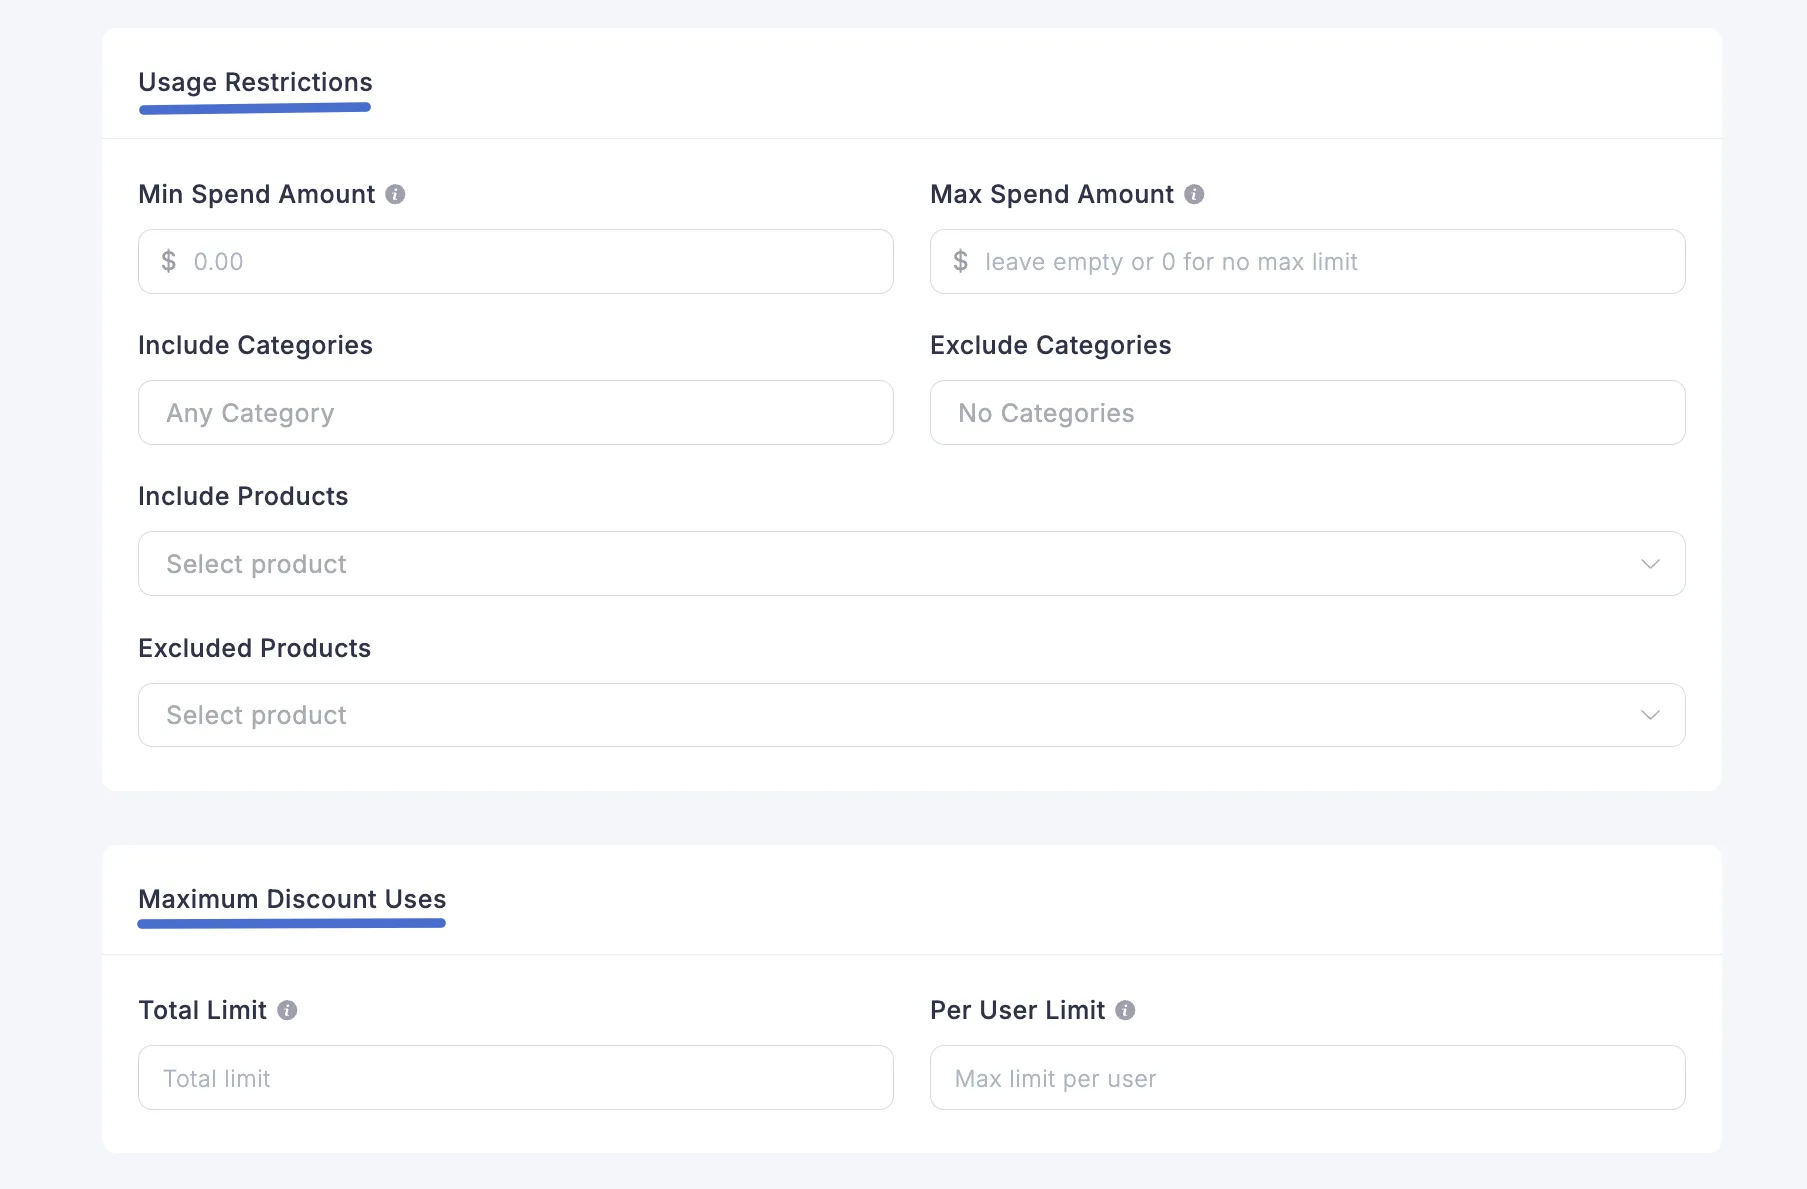
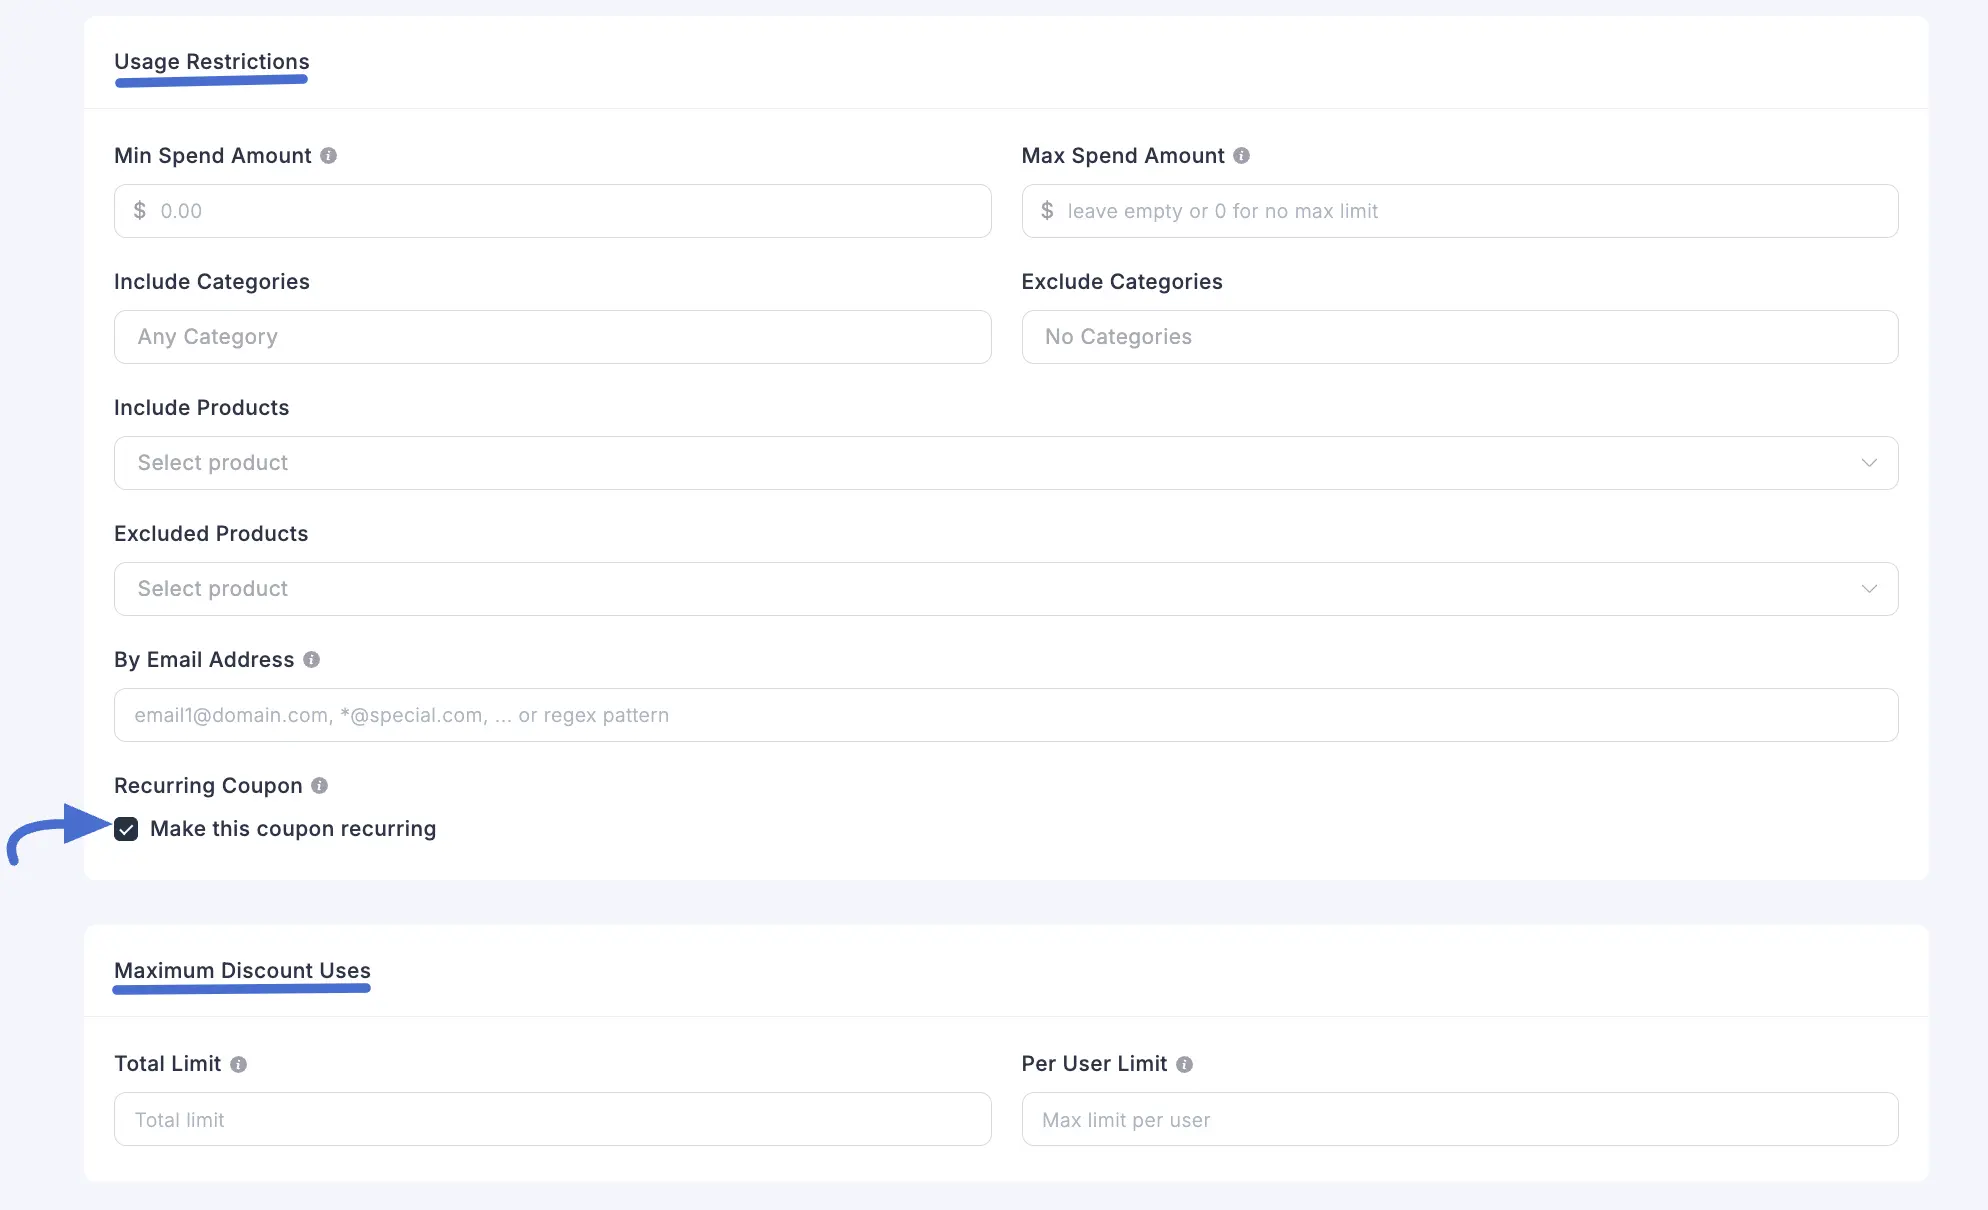
adding coupons doc update
Update Adding Coupons docs 100% recurring feature.

diff --git a/guide/marketing-sales-tools/creating-managing-coupons/adding-coupons/index.md b/guide/marketing-sales-tools/creating-managing-coupons/adding-coupons/index.md
@@ -49,14 +49,41 @@ On the right side of the screen, you’ll find the **Schedule** box. This is whe
 
 ### 4. Usage Restrictions
 
-Sometimes, you only want a coupon to work for certain products or if a customer spends enough money. This is where you set those rules.
+Sometimes, you don’t want a coupon to be used for every single thing in your store. Usage restrictions let you set the "rules" for how and when a discount can be used. This helps you protect your profits while still offering great deals to the right people.
 
-* **Min Spend Amount:** The customer's cart must be at least this amount for the coupon to work.
-* **Max Spend Amount:** You can set a maximum cart value for the coupon. Leave it empty for no limit.
-* **Include/Exclude Categories:** You can make the coupon valid for only certain product categories (like "T-Shirts") or exclude certain categories.
-* **Include/Exclude Products:** Similar to categories, you can pick specific products that the coupon will or will not work for.
+#### Spending Limits
 
-    ![Screenshot of Usage Restrictions](/images/marketing-sales-tools/usage-restrictions.webp)
+ * **Min Spend Amount:** The customer's cart must reach this total before the coupon will work.
+ * **Max Spend Amount:** You can set a limit so the coupon won't work if the cart total is too high. If you don't want a limit, just leave this empty.
+
+#### Picking Specific Items
+
+ * **Include/Exclude Categories:** You can choose to make a coupon work only for certain groups of products (like "Winter Gear") or keep it from working on others.
+ * **Include/Exclude Products:** If you have one specific product that you don't want to discount, you can list it here to exclude it from the deal.
+
+#### Restricting by User
+
+ * **By Email Address:** You can limit a coupon so only specific people can use it by entering their email addresses here. This is perfect for sending a "thank you" discount to a single loyal customer.
+
+### Recurring Coupons 
+
+FluentCart supports 100% recurring discounts for subscriptions. This means a coupon can apply not just to the first payment, but to every renewal for as long as the subscription remains active.
+
+#### Make this coupon recurring
+
+When enabled, the discount will automatically apply on each billing cycle—no manual work required.
+
+#### Why Use This
+
+ * **Free Team Access:** Give your own staff or testers completely free access to your services.
+ * **Sponsor Memberships:** Allow a sponsor to pay for a customer's membership so the customer pays $0 for every renewal.
+ * **Influencer Perks:** Create special links for partners that give their followers zero-cost renewals for a set time.
+ * **Lifetime Trials:** Launch plans that stay free until you decide to change them manually
+
+>[!Note]
+>This feature makes your store more flexible because it doesn't assume every subscription has to make money immediately. It also makes your reports and renewal logic much safer for the long term.
+
+   ![Screenshot of Usage Restrictions](/images/marketing-sales-tools/usage-restrictions.webp)
 
 ### 5. Maximum Discount Uses
 
